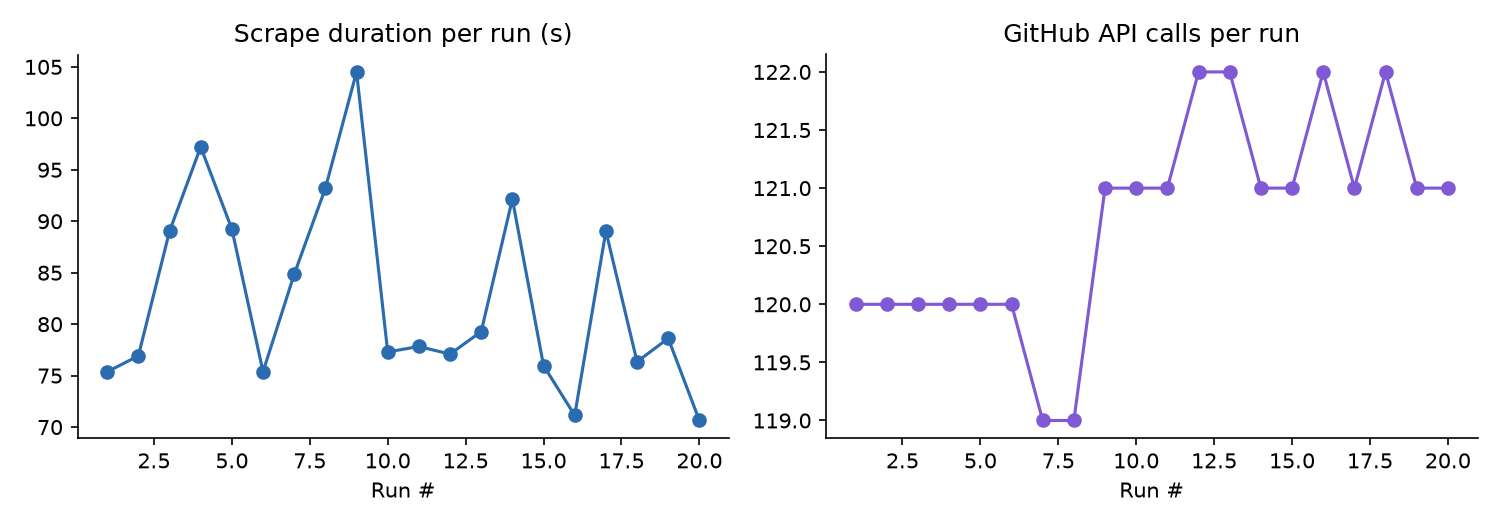
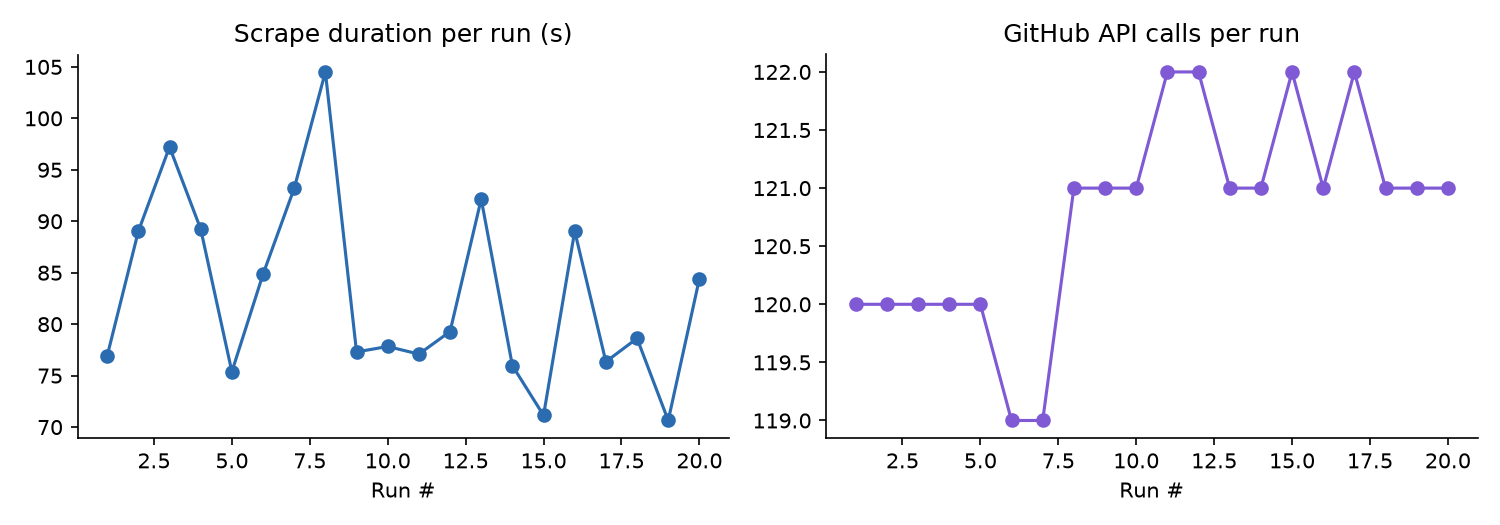
Weekly issue tracker refresh

diff --git a/README.md b/README.md
@@ -81,7 +81,7 @@ See [CONTRIBUTING.md](CONTRIBUTING.md) for the full contributor workflow — inc
 
 <!-- TRACKER:START -->
 
-_Last updated: 2026-11-01 20:55 UTC_
+_Last updated: 2026-11-02 00:03 UTC_
 
 _Tracking **18** upstream repos, **370** relevant open issues._
 
@@ -124,10 +124,10 @@ _Tracking **18** upstream repos, **370** relevant open issues._
 
 | Score | Issue | Labels | Comments | Updated |
 |---|---|---|---|---|
-| ★★☆☆☆ | [#7766](https://github.com/ansible-collections/community.general/issues/7766) Can't delete CAA records in Cloudflare | bug, module, has_pr, plugins | 4 | 2026-10-31 |
-| ★★☆☆☆ | [#7780](https://github.com/ansible-collections/community.general/issues/7780) cloudflare_dns isn't idempotent with TLSA records | bug, module, has_pr, plugins | 4 | 2026-10-31 |
 | ★★☆☆☆ | [#4383](https://github.com/ansible-collections/community.general/issues/4383) The nmcli routes functions are not idempotent. | bug, module, needs_info, plugins, net_tools | 4 | 2026-10-31 |
-| ★★☆☆☆ | [#13148](https://github.com/ansible-collections/community.general/issues/13148) yum_versionlock: existing locks are not recognized with dnf5 | bug, module | 2 | 2026-10-30 |
+| ★★☆☆☆ | [#4113](https://github.com/ansible-collections/community.general/issues/4113) jenkins_job fails with Jenkins 2.319.x due to: Unable to create job, Error in request. Possibly authentication failed [403] | bug, module, needs_info, traceback, plugins, web_infrastructure | 4 | 2026-10-30 |
+| ★★☆☆☆ | [#11843](https://github.com/ansible-collections/community.general/issues/11843) Re-enable callback unit tests for ansible-core >= 2.21 | bug, callback, has_pr, plugins | 7 | 2026-10-29 |
+| ★★☆☆☆ | [#8901](https://github.com/ansible-collections/community.general/issues/8901) lvg: resizing existing pv doesn't work against Ubuntu 24.04 | bug, module, needs_info, plugins | 3 | 2026-10-29 |
 | ★☆☆☆☆ | [#3773](https://github.com/ansible-collections/community.general/issues/3773) Add `--allow-untrusted` to `apk add` so that local apks can be installed | feature, module, plugins, os, packaging | 7 | 2026-11-01 |
 | ★☆☆☆☆ | [#13176](https://github.com/ansible-collections/community.general/issues/13176) Discussion: proposal to add modules for managing Sonatype Nexus Repository Manager 3 | feature | 4 | 2026-10-31 |
 | ★☆☆☆☆ | [#5032](https://github.com/ansible-collections/community.general/issues/5032) [Feature] Get specific/custom release of a public repository github | feature, module | 6 | 2026-10-31 |
@@ -295,7 +295,7 @@ _Tracking **18** upstream repos, **370** relevant open issues._
 
 <!-- METRICS:START -->
 
-_Last run: 2026-11-01 20:54 UTC, took **70.6s**, **121** GitHub API calls, **4879/5000** rate limit remaining._
+_Last run: 2026-11-02 00:02 UTC, took **84.4s**, **121** GitHub API calls, **4879/5000** rate limit remaining._
 
 ![Scrape metrics trend](assets/metrics_trend.png)
 
